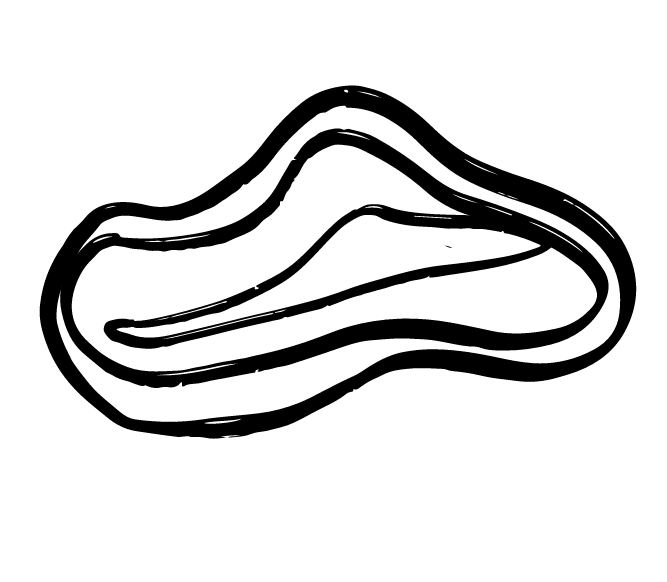
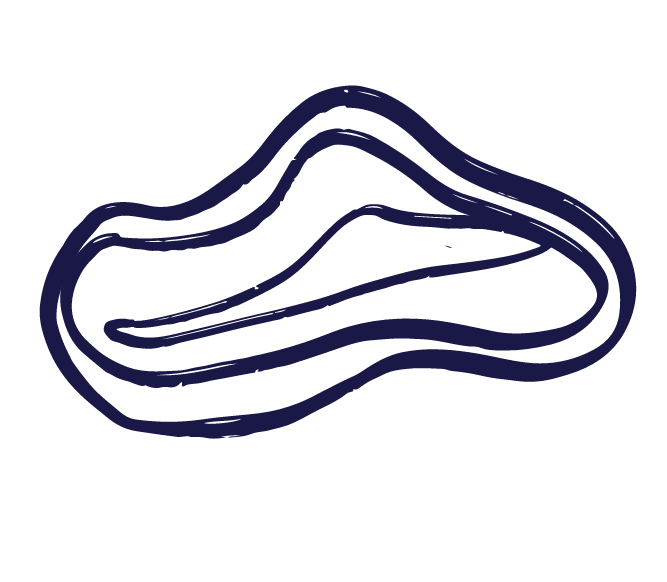
add

Changed region(s): [[0.06, 0.1237, 0.9595, 0.7732]]

diff --git a/index.html b/index.html
@@ -14,33 +14,32 @@
   <header class="header">
 
     <div class="wrapper header__wrapper">
-      <h1 class="header__title">
-        <a href="./index.html">
-          Karin's Portfolio
-        </a>
-      </h1><!-- /.header__title -->
       <ul class="header__items">
         <li class="header__item">
           <a href="#about">
             about
+            <span>私について</span>
           </a>
         </li><!-- /.header__item -->
         
         <li class="header__item">
           <a href="#skills">
             skills
+            <span>能力</span>
           </a>
         </li><!-- /.header__item -->
 
         <li class="header__item">
           <a href="#portfolios">
             portfolios
+            <span>作品</span>
           </a>
         </li><!-- /.header__item -->
 
         <li class="header__item">
           <a href="#contact">
             contact
+            <span>お問い合わせ</span>
           </a>
         </li><!-- /.header__item -->
 
@@ -52,6 +51,14 @@
     <div class="wrapper">
       <div class="container mv__container">
         <div class="mv__textWrapper">
+          <h2 class="mv__title">
+            Welcome to
+            <br>
+            my portfolio
+          </h2><!-- /.mv__title -->
+          <p class="mv__text">
+            上から下隅々までご覧ください！
+          </p><!-- /.mv__text -->
         </div><!-- /.mv__textWrapper -->
 
         <div class="mv__imgWrapper">
@@ -97,27 +104,16 @@
           <p>
             初めまして！ナカニシと申します。
             <br>
-            英文学科を2019年卒業後、語学力をさらに伸ばすために
-            <br>
-            カナダに一年留学しました。
+            英文学科を2019年卒業後、語学力をさらに伸ばすため、カナダに一年留学しました。
           </p>
           <p>
-            帰国後現在は、コーダー、フロントエンジニアを目指して
-            <br>
+            帰国後現在は、コーダー、フロントエンジニアを目指して、
             2020年の6月から
             <br>
-            HTML, CSS, Sass, JavaScript, jQuery, Vue.js, WordPress
-            <br>
-            の勉強をしています。
+            独学で勉強をしています。
           </p>
           <p>
-            現在は勉強やウェブサイトを
-            <br>
-            「作る工程に慣れたい」というのもあり、
-            <br>
-            xdデザインからの模写10サイト終わらせるというのを目標に、
-            <br>
-            勉強しています。
+            現在はウェブサイトを「作る工程に慣れたい」というのもあり、xdデザインからの模写10サイト終わらせるというのを目標に、勉強しています。
           </p>
           <p>
             日々の学びは
@@ -128,9 +124,7 @@
             <a class="-twitter" href="https://twitter.com/home?lang=ja">
               Twitter
             </a>
-            などを使い
-            <br>
-            アウトプットするよう心がけています！
+            などを使い、アウトプットするよう心がけています！
           </p>
         </div><!-- /.about__container__text -->
       </div><!-- /.container -->
@@ -147,7 +141,7 @@
         <ul class="skill__items">
           <li class="skill__item">
             <div class="skill__item__img">
-              <!-- <img src="./img/iconfinder_html_308440.png" alt="html"> -->
+              <img src="./img/icons8-html-5-128.png" alt="html">
             </div><!-- /.skill__item__img -->
             <div class="skill__item__text">
               <h3>HTML5</h3>
@@ -160,7 +154,7 @@
 
           <li class="skill__item">
             <div class="skill__item__img">
-              <!-- <img src="./img/iconfinder_css_308436.png" alt="html"> -->
+              <img src="./img/icons8-css3-128.png" alt="css">
             </div><!-- /.skill__item__img -->
             <div class="skill__item__text">
               <h3>CSS3</h3>
@@ -172,7 +166,7 @@
 
           <li class="skill__item">
             <div class="skill__item__img">
-              <!-- <img src="./img/iconfinder_javascript_308441.png" alt="html"> -->
+              <img src="./img/icons8-javascript-128.png" alt="js">
             </div><!-- /.skill__item__img -->
             <div class="skill__item__text">
               <h3>Javascript</h3>
@@ -184,7 +178,7 @@
 
           <li class="skill__item">
             <div class="skill__item__img">
-              <!-- <img src="./img/iconfinder_wordpress_334823.png" alt="html"> -->
+              <img src="./img/icons8-wordpress-128.png" alt="wordpress">
             </div><!-- /.skill__item__img -->
             <div class="skill__item__text">
               <h3>WordPress</h3>

diff --git a/css/style.css b/css/style.css
@@ -1,5 +1,5 @@
 body {
-  color: #3b3b3b;
+  color: #191847;
   font-family: "Montserrat","游ゴシック",YuGothic,"ヒラギノ角ゴ ProN W3","Hiragino Kaku Gothic ProN","メイリオ",Meiryo,sans-serif;
   scroll-behavior: smooth;
   font-family: 'Abril Fatface', cursive;
@@ -17,29 +17,31 @@ body {
   text-align: center;
 }
 
+
 /* header */
 .header__wrapper {
-  display: flex;
-  justify-content: space-between;
   padding: 30px 0 50px;
   text-align: center;
-}
-
-.header__title {
-  font-weight: bold;
-  font-size: 30px;
-} 
-
-.header__title span {
-  font-size: 45px;
 }
 
 .header__items {
   display: flex;
   justify-content: space-between;
-  max-width: 300px;
-  padding: 24px 0 0;
+  margin: 0 auto;
+  max-width: 450px;
+  padding: 8px 0 0;
+  text-align: center;
   width: 100%;
+}
+
+.header__item a span {
+  display: block;
+  font-size: 12px;
+  padding: 5px 0 0;
+}
+
+.header__item a:hover {
+  color: #ff4133;
 }
 
 
@@ -47,6 +49,20 @@ body {
 .mv__container {
   display: flex;
   justify-content: space-between;
+  margin: 0 0 100px;
+  max-width: 900px;
+  width: 100%;
+}
+
+.mv__title {
+  font-size: 60px;
+  line-height: 1.3;
+  padding: 0 0 20px;
+  text-align: left;
+}
+
+.mv__text {
+  text-align: center;
 }
 
 .mv__imgWrapper {
@@ -65,7 +81,6 @@ body {
   background-repeat: no-repeat;
   content: "";
   height: 300px;
-  opacity: 0.7;
   position: absolute;
   top: 30px;
   right: -180px;
@@ -91,7 +106,7 @@ body {
 
 /* about */
 .about__container {
-  margin: 0 auto;
+  margin: 150px auto;
   max-width: 700px;
   width: 100%;
 }
@@ -111,10 +126,24 @@ body {
   z-index: 2;
 }
 
+.about__container__img::before {
+  background-image: url(../img/24@2x.png);
+  background-size: contain;
+  background-repeat: no-repeat;
+  content: "";
+  height: 150px;
+  opacity: 0.7;
+  position: absolute;
+  top: 300px;
+  left: -70px;
+  width: 150px;
+  z-index: 3;
+}
+
 .about__container__img::after {
   position: absolute;
   content: "";
-  border: 5px solid #3b3b3b;
+  border: 5px solid #d3f2f5;
   width: 350px;
   height: 350px;
   top: 20px;
@@ -122,10 +151,28 @@ body {
   z-index: 1;
 }
 
+.about__container__name {
+  position: relative;
+}
+
 .about__container__name h2 {
   font-size: 40px;
   line-height: 1.2;
   padding: 200px 0 0 50px;
+}
+
+.about__container__name h2::before {
+  background-image: url(../img/81@2x.png);
+  background-size: contain;
+  background-repeat: no-repeat;
+  content: "";
+  height: 200px;
+  opacity: 0.7;
+  position: absolute;
+  top: 0px;
+  left: -50px;
+  width: 200px;
+  z-index: 3;
 }
 
 .about__container__name p {
@@ -160,6 +207,7 @@ body {
 }
 
 .about__container__text p {
+  font-size: 18px;
   line-height: 1.8;
   text-align: left;
   padding: 0 0 30px;
@@ -192,6 +240,7 @@ body {
 
 
 .skill__item__img img {
+  background-color: #89c5cb;
   height: auto;
   width: 100px;
 }
